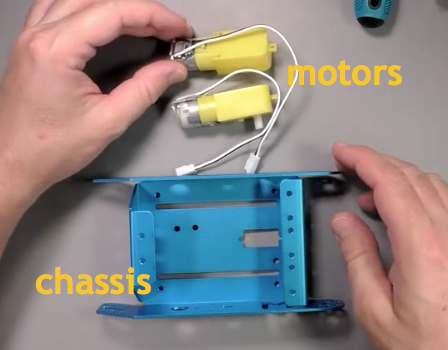
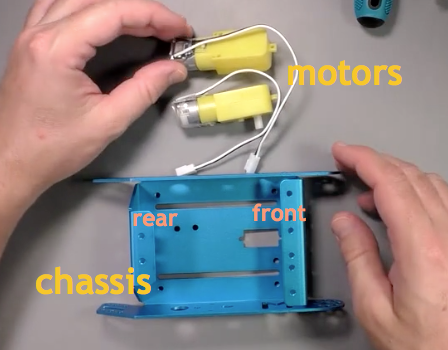
Updates section-1-chapter-2-assembly-part-1-chassis-motors-wheels-and-sensors.md
Auto commit by GitBook Editor

Changed region(s): [[0.5625, 0.5714, 0.6875, 0.6286], [0.2812, 0.6, 0.4062, 0.6571]]

diff --git a/section-1-chapter-2-assembly-part-1-chassis-motors-wheels-and-sensors.md b/section-1-chapter-2-assembly-part-1-chassis-motors-wheels-and-sensors.md
@@ -8,59 +8,87 @@
 
 In this chapter, you will learn about:
 
-* 1
+* How to attach the two Direct Current \(DC\) motors to the mBot chassis
 * 2
 * 3
 
 ---
 
-For the assembly process I recommended that you put aside about 15, have to be 20 minutes. This is said earlier, small kids, say, seven years and older should be able to complete this process with a bit of supervision. There are a few small pieces that the supervisor needs to be mindful of. It need a bit of accurate manipulation.
+For the assembly process I recommended that you put aside about 15 to 20 minutes. Because there are a few tiny parts involved, especially screws that need precision placement and should definately not be eaten, young children should be supervised.
 
-Let's get started. The first thing to do is to begin with the chassis and connect the two-geared DC motors to the chassis. Notice that the chassis has a front, it's a smiley face. This is a front, and a back. I'm going to orient my chassis like this, and notice then that at the back I've got the two large holes from either side, and this is the way a DC motor shaft has to be inserted through like that.
+The first thing to do is to begin with the chassis and attach the two-geared DC motors. Notice that the chassis is not symmetrical, it has a front and a back. The front is the side with the smiley face. 
 
-![](/assets/2017-03-13_06-52-38.png)
+![](/assets/IMG_9611.JPG)
 
-\[Image 1.2.1: Attaching the motors to the chassis\]
+\[Image 1.2.1: The smiley face indicates the front of the chassis\]
 
-Play around with the positioning of the motor. You want the white shaft to come out of the large whole, but then there's also a small indentation. This indentation here, that has to go through this smaller hole. That keeps the motor in place, like that. I should do that, you notice that, I'll use the motor to show this.
+Place the chassis on the table with the rear towards the left. Notice that close to the rear end of the chasis, as you look at it from the sides, are two large holes, one on each side. This is where the motor shaft must be placed.
 
-There are a couple of holes that go from one end of the motor casing to the other. This is where you'll insert the long screws through to attach the motor onto the chassis. These screws, let's see where are they? They are in here. We're going to open up the large pack. It's the small bits and pieces. Screws, spaces, then here are the long screws for the motors.
+![](/assets/IMG_9609.JPG)
+
+\[Image 1.2.2: The shaft of the motor must be placed in the large hole in the rear of the mBot\]
+
+Take one of the motors and position it so that its shaft goes through the large hole in the rear of the mBot. There is on small indentantion on the plastic case of the motors that goes through a smaller hole close to the shaft. Carefully align the motor case so that you can see two screw holes as you are looking down from the side of the chassis. Image 1.2.2 cam help you find the right posisioning of the motor.
+
+Once the motor case snugs into place, take two long screws and their nuts and use them to secure the motors in place. I find it easier to start with the screw that is closer to the outside of the chassis because it is easier to reach. Once you tighten that screw, the motor will be safely attached to the chassis and it will be easier to tighten the second screw.
+
+![](/assets/IMG_9610.JPG)
+
+\[Image 1.2.3: Attaching the motors to the chassis\]
+
+Be patient. Use the screwdriver to drive the screw in the channel of the motor case. Use your fingers to hold the nut in place while you turn the screw, and turn the screwdriver just enough to produce some tension, without damaging the threads. 
 
 ![](/assets/2017-03-13_06-55-35.png)
 
-Okay, there we are. I'll grab two of those. I also need the nuts. This little bag here has the nuts to go with the screws. Make sure none of them are left in the bag. We're going to need every single one of them. Here's a nut, going to take the screw, and make sure that my motor is properly aligned so wide shaft from the motor and this little indentation onto fits on the chassis.
+\[Image 1.2.4: Attaching the motors to the chassis\]
 
-Then, I'll push the screw through the opening on the chassis. It might go all the way in. If you push it hard enough it will. Just make sure that the screw head is on the outside of the chassis because you need to be able to use your screw driver with it. Some people, by mistake, they put it on the other side, then of course, they can use the screw driver, and have to take it out.
+Repeat this process for both motors.
 
-All right, I will use a Philips screw head on my screw driver, and position the nut on the other side of the screw, and start turning the screw driver to secure the nut against the screw. Okay. Same thing with the second screw. Just push it through all the way. Here's the nut. Place the nut onto the screw and start turning the screw driver.
+Once you are finished with the motors, continue to work on the wheels. The kit contains two white plastic wheels with two black rubber wheel covers.Inside this rubber wheel cover, there is a small channel in which you need to insert the wheel. Gently push the wheel into the channel of the cover. Do the same for the second wheel. 
 
-Now, this bit is kind of tricky and small kids will have trouble with, so keep an eye on the kids. You'll probably have a few accidents with the nuts, and roll off the table and onto the floor, and then you have to go hunting for these little bits. All right, other side now. Again, I find it much easier to start with a top screw because it's just easier to work with a nut on the other side.
+![](/assets/IMG_9612.JPG)
 
-Therefore, we have a bit a little easily secure the motor against the chassis and they will go for the harder bit, that's the screw on the bottom. Okay, so that's one. That's two. I've got my motors with the two screws and the two nuts secured against the chassis. These are not going anywhere, correct. Next, let's do the wheels.
+\[Image 1.2.5: Assemble the wheels\]
 
-We've got two wheels with plastic or rubber wheel covers. Let's assemble them. You can see that inside this plastic wheel, we've got a small groove in which the wheel can secure against. Gently slide one into the other. Okay, that's one. Do the same for the other wheel. There's the other. The bag that contains the screws that we want is this one here.
+One of the plastic bags contains two long screws that we need for securing the wheels against the motor shafts. Find the ones that are thin, long and have a pointy tip.
 
-I can see that the screws here are the ones that got a pointy end, and they're quite thin. These are the ones that we want to use for our wheels.
+![](/assets/IMG_9614.JPG)
 
-Open this little bag, get the four screws out. Let's attach the first one. Notice that the wheel has got two sides. One is the one in which the screw is going to go like that. This one, of course, is on the outside. The other one has got an insert that fits with the shaft of the motor. Manipulate a little bit on to the motor until it slides in, and then secure the wheel onto the motor with the screw. Don't screw these too far and then apply too much force because these are just plastic bits. If you screw it too much, you're going to ruin the threads.
+\[Image 1.2.6: Use two of these screws to secure the wheels against the motor shafts\]
 
-If you do that though, just remember that you've got another little bag with a spare parts for the motors.
+Using the Philips screwhead, drive the screw into the shaft. Don't use too much force. All the components are plastic and especially the screw threads are easy to damage.![](/assets/IMG_9613.JPG)
 
-These things here are the shaft of the motor, it's plastic. If you are having problems with the wheels not turning when the motor is turning, then mostly the shaft on the wheel has its teeth, so I should take that out of the bag to be able to get a view of this. What happens is that the teeth on the shaft, these teeth here are probably been grind down and therefore they are not connecting to the gears inside the yellow box. If this happens, you will have to open up this yellow box and replace this part.
+\[Image 1.2.7: Attach the wheels to the motor shafts\]
 
-Luckily enough, this part comes in a package with the mBot, so you can keep them as spares. Don't lose them. Keep them somewhere safe. It's a matter of time that this actually will happen. If you turn the wheels like this, one way when the motor is pushing them the other way, then you will eventually damage the gears. Not a huge deal since there are replacements around. You can also get replacements by ordering them.
+If you do damage one of these parts remember that the kit comes with spares, and you can also order more from MakeBlock.
 
-So second wheel on. I use another screw with a pointy end, that in there, and tighten the screw without overdoing it. Use a thumb to keep the wheel stopped so that the wheel doesn't turn as you turn the screwdriver. If I don't get my thumb on the wheel, so I turn the screwdriver, they will all turn. Okay, done. This part is finished.
+One more thing to remember is that inside the motor gear box are several plastic gears. Those can also be damaged during operation, or can wear off over time. If you are having problems with the wheels not turning when the motor is turning, the most likely cause is the the gears inside the gear box are damaged. If this happens, you can open up the yellow gear box and replace this part instead of buying a new motor. Replacement gear are included in the kit.
 
-The next thing to do, is to attach the line from a module. To do that, I need my line from my module plus the module with the wheel. I've got a mini wheel here. I need to assemble one module on top of the other, and then secure them on to the chassis. So remember that right now, I'm looking at the bottom of the mBot and the line-following sensors need to point to the bottom.
+The next thing to do, is to attach the line follower module. This component is mounted at the front of the mBot, together with the front wheel module. First, find two hexagonal screws. Then, place the line module with the sensor pointing down at the front of the chassis. On top of the line module place the mini wheel module, with the wheel towards the back of the mBot. If you place the wheel pointing towards the front, you will block the line sensors. 
 
-I'm not going to plug that in like this, but like this. And notice that there are one, two, three pairs of holes here. You want to use the one in the middle. You don't want this bit to extend too far in front of it. You go for the middle. And then, you want to also attach the mini wheel module right on top of the line-following module like that facing backwards instead of forwards. Because if you do it like that, you will obstruct the sensors with a wheel. So we'll do it backwards like that.
+So remember that right now, you should be looking at the bottom of the mBot and the line-following sensors need to point to the bottom. 
 
-Now, for this, we will need to use the short and thick screws. These screws here, they don't require a nut. They just screw it directly on to the chassis, because the chassis already has the threads on it. So going to take my assembly, put the screw in through it, and then attach it on to the chassis. Now, these are hexagon heads. So I need to flip my screwdriver so I can use a hexagon bit at the end.
+Look at Images 1.2.8 and 1.2.9 to work out the placement of the line follower module and mini wheel module combo.
 
-All right, I'll start with the first screw. Here we go. It plugs right in, they're easy to screw in. With the first screw, don't tighten it too much. You need to be able to allow the module to give a little bit so that you can align it with the second hole. And they've got this second screw going in. Okay, now you can screw both screws in, tighten them in a little bit more. Done. Then, flip the mBot over and what we do next is to attach the range finder.
+![](/assets/IMG_9615.JPG)
 
-The range finder needs to point forwards, remember, back, forwards, you know which way is forwards because it's got this smiley face in front of it. So we want to attach the range finder in like that. Just put in the first screw, leave it a little loose, and insert the second screw. I'm not tightening the screws so that the range finder is nice and secure. Here we go, okay.
+\[Image 1.2.8: Attach the wheels to the motor shafts, view 1\]
+
+![](/assets/IMG_9616.JPG)
+
+\[Image 1.2.9: Attach the wheels to the motor shafts, view 2\]
+
+To secure the two modules against the chasis, use the short and thick screws. They screw directly on to the chassis, because the chassis holes already have the threads. 
+
+Last, for this chapter, time to attach the range finder module.
+
+The range finder needs to point forwards, the end of the mBot with the smiley face on it. 
+
+![](/assets/IMG_9611 %281%29.JPG)
+
+\[Image 1.2.10: Attach the rangefinder module to the front of the mBot\]
+
+So we want to attach the range finder in like that. Just put in the first screw, leave it a little loose, and insert the second screw. I'm not tightening the screws so that the range finder is nice and secure. Here we go, okay.
 
 Next, let's attach the cables. I've got two cables here, one for each sensor. I get the first one, connect it to the line-following sensor, and I will pass that through the small hall on the chassis to go to through the top side of the chassis, where the microcontroller module eventually will be. We're going to push that there and then pull the cable out so that I expose the cable up the top. Then, plug the second cable to the range finder.
 
